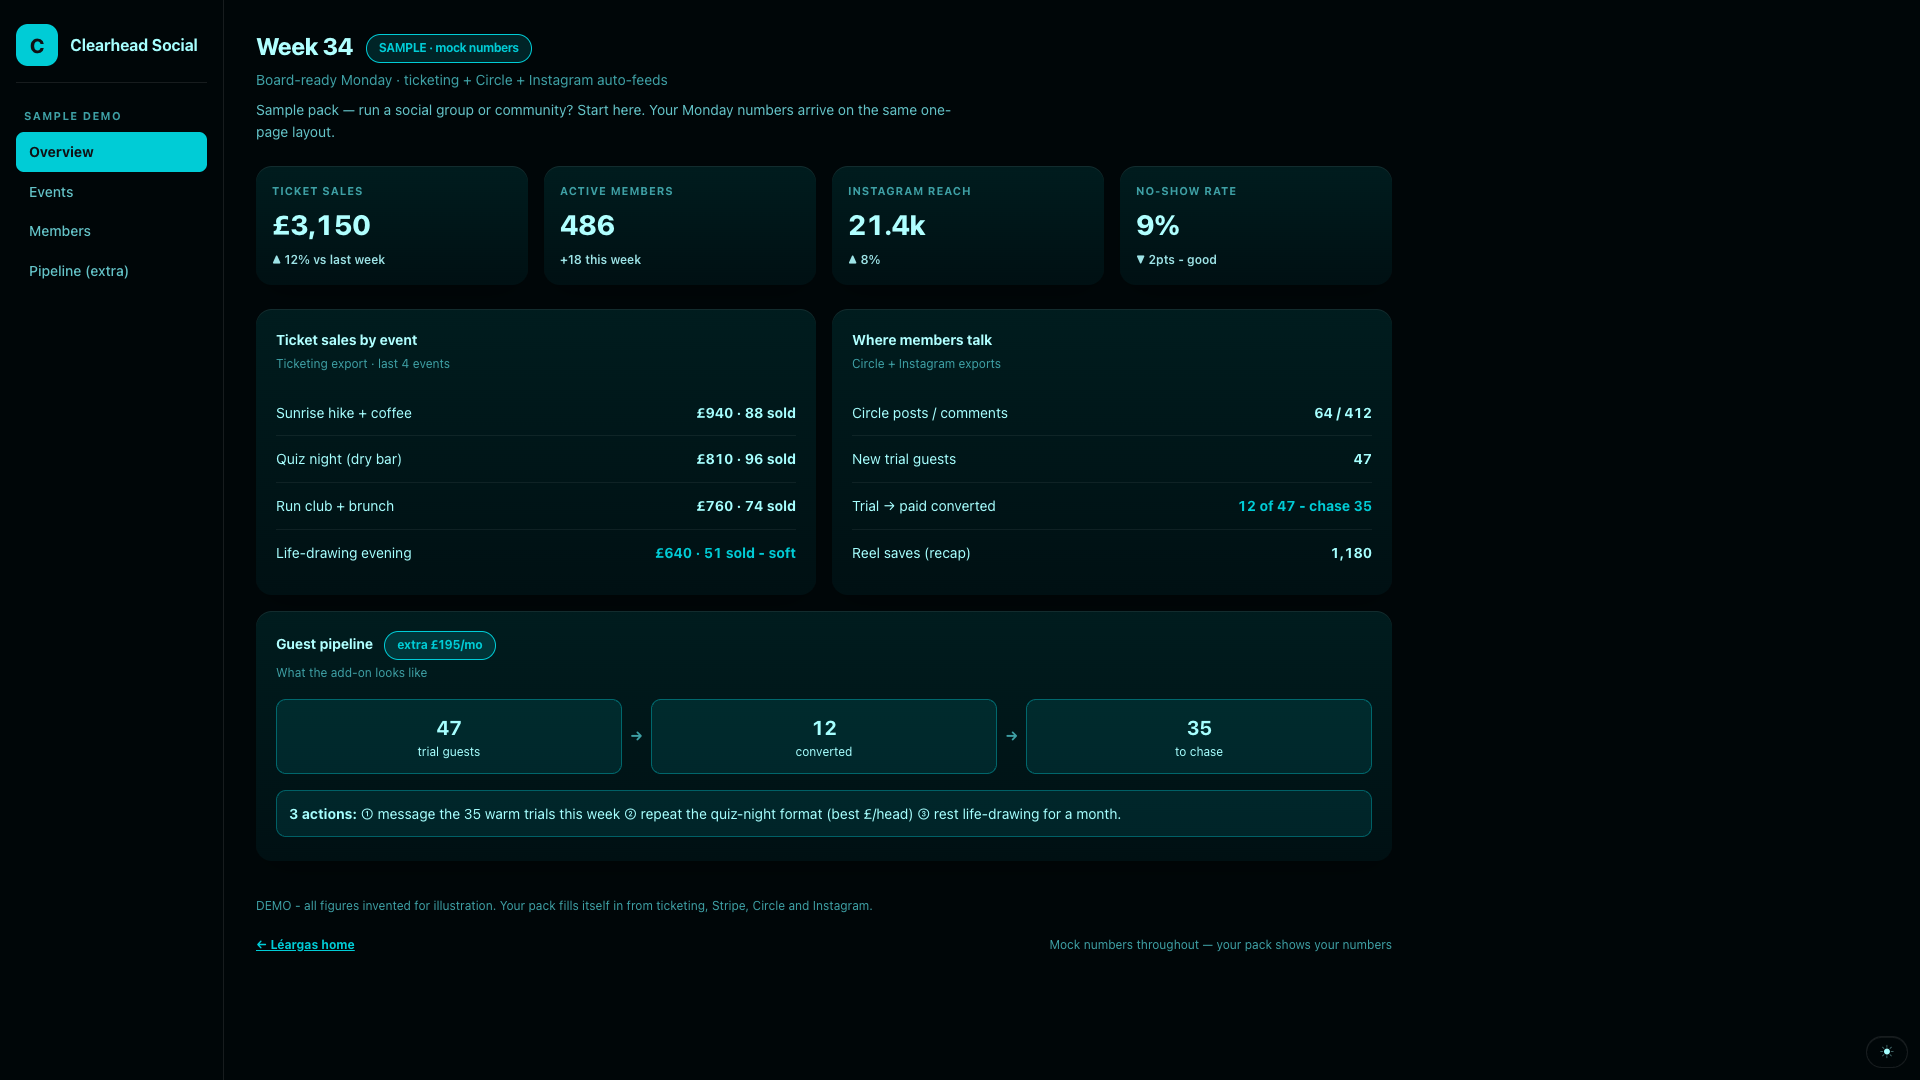
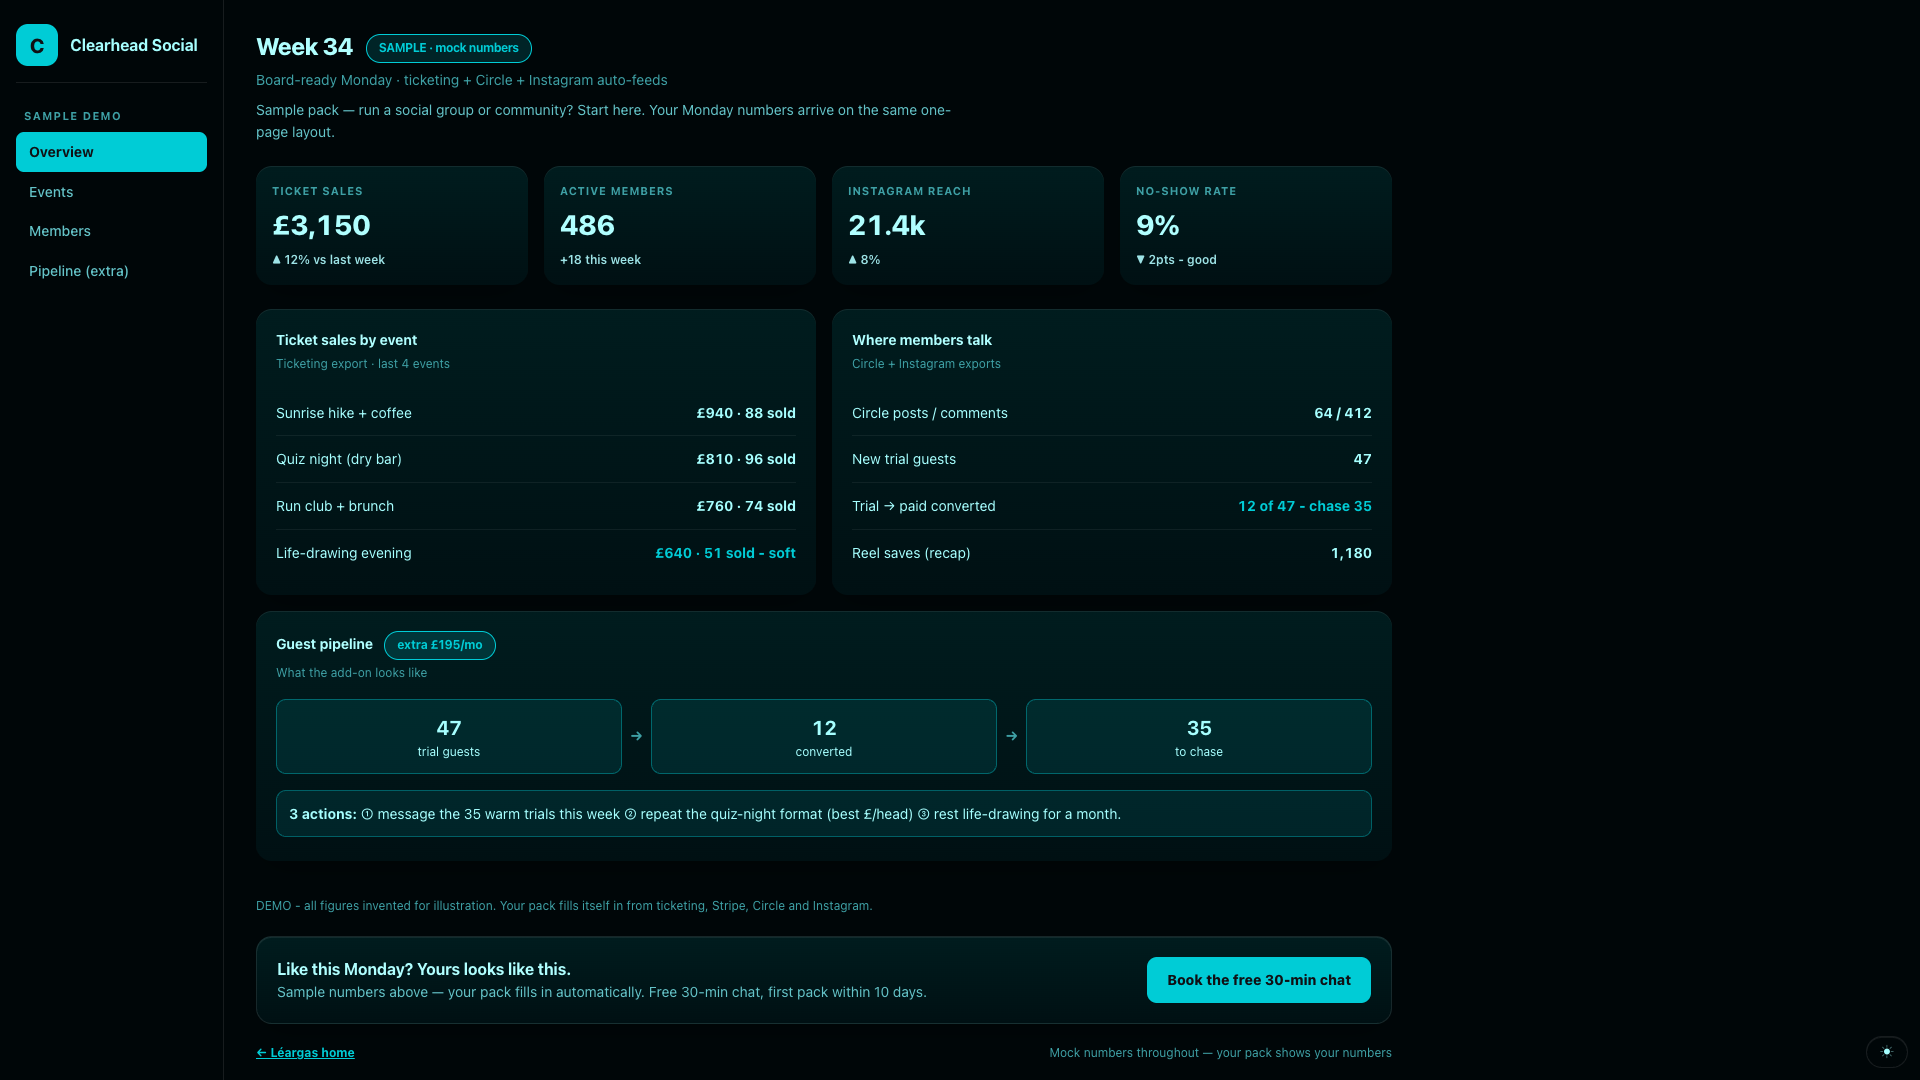
Restore demo bands + hero CTA, one voice: Book the free 30-min chat

Changed region(s): [[0.5312, 0.8556, 0.7188, 0.9778], [0.125, 0.8556, 0.4688, 0.9778]]

diff --git a/demo-social-group.html b/demo-social-group.html
@@ -64,6 +64,11 @@ button.ni{font-family:inherit}.ni:hover{background:rgba(255,255,255,.06);color:v
 html,body{overflow-x:clip}
 img{max-width:100%;height:auto}
 .foot a{color:var(--accent);font-weight:700}
+.bookbar{margin-top:1.25rem;border:1px solid var(--line);border-radius:1rem;padding:1.25rem;background:linear-gradient(180deg,var(--surface-hi),var(--surface));box-shadow:var(--shadow);display:flex;gap:1rem;align-items:center;justify-content:space-between;flex-wrap:wrap}
+.bookbar b{display:block;font-size:1rem;color:var(--ink-hi);letter-spacing:-.01em}
+.bookbar span{font-size:.875rem;color:var(--muted)}
+.bookbar a{flex-shrink:0;background:var(--accent);color:var(--accent-ink);font-weight:800;text-decoration:none;padding:.75rem 1.25rem;border-radius:.625rem;white-space:nowrap}
+@media(max-width:32.5rem){.bookbar a{width:100%;text-align:center;white-space:normal}}
 </style>
 </head>
 <body>
@@ -92,6 +97,7 @@ img{max-width:100%;height:auto}
 <div class="funnel"><div class="fstep"><b>47</b>trial guests</div><div class="arr">→</div><div class="fstep"><b>12</b>converted</div><div class="arr">→</div><div class="fstep"><b>35</b>to chase</div></div>
 <div class="act"><b>3 actions:</b> ① message the 35 warm trials this week ② repeat the quiz-night format (best £/head) ③ rest life-drawing for a month.</div></div></div></div>
 <div class="foot">DEMO - all figures invented for illustration. Your pack fills itself in from ticketing, Stripe, Circle and Instagram.</div>
+<div class="bookbar"><div><b>Like this Monday? Yours looks like this.</b><span>Sample numbers above — your pack fills in automatically. Free 30-min chat, first pack within 10 days.</span></div><a href="https://calendly.com/leargas/30min" target="_blank" rel="noopener">Book the free 30-min chat</a></div>
 <div class="foot"><span><a href="index.html">← Léargas home</a></span><span>Mock numbers throughout — your pack shows your numbers</span></div>
 </main></div>
 <button type="button" class="theme-toggle" id="themeToggle" title="Toggle light/dark mode" aria-label="Switch to light mode">☀</button>

diff --git a/index.html b/index.html
@@ -31,6 +31,8 @@ img{max-width:100%;height:auto}
 .topbar{position:sticky;top:0;z-index:10;background:color-mix(in srgb,var(--bg) 88%,transparent);backdrop-filter:blur(8px);border-bottom:1px solid var(--line)}
 .topbar .wrap{display:flex;align-items:center;justify-content:space-between;padding-top:.75rem;padding-bottom:.75rem}
 .brand{font-weight:800;letter-spacing:.14em;font-size:.875rem;text-decoration:none;color:var(--ink)}
+.btn{display:inline-block;background:var(--primary);color:var(--on-primary);font-weight:700;font-size:1rem;padding:.75rem 1.5rem;border-radius:.625rem;text-decoration:none;border:none;cursor:pointer;transition:background .15s ease-out,transform .15s ease-out,box-shadow .15s ease-out}
+.btn:hover{background:var(--primary-hi)}.btn:active{transform:translateY(1px)}
 .link-more{font-weight:600;font-size:1rem;color:var(--primary)}
 .hero .wrap{display:grid;grid-template-columns:1.05fr .95fr;gap:2rem;align-items:center;padding-top:3.5rem;padding-bottom:3rem}
 .eyebrow{display:inline-block;font-size:.75rem;font-weight:800;letter-spacing:.14em;text-transform:uppercase;color:var(--primary);margin-bottom:1rem}
@@ -114,7 +116,7 @@ footer.site .wrap{display:flex;gap:.5rem 1.5rem;flex-wrap:wrap;align-items:cente
 <div class="eyebrow">Made in Belfast · For independent hospitality</div>
 <h1>Every Monday, your numbers on one page.</h1>
 <p class="lede">Revenue, costs, cash and what needs attention — pulled automatically from the systems you already use. No new software. No manual entry. No Monday spreadsheet.</p>
-<div class="cta-row"><a class="link-more" href="#demos">See a live demo ↓</a></div>
+<div class="cta-row"><a class="btn" href="https://calendly.com/leargas/30min" target="_blank" rel="noopener">Book the free 30-min chat</a><a class="link-more" href="#demos">See a live demo ↓</a></div>
 </div>
 <div class="pack" aria-label="Sample Monday pack preview">
 <div class="pack-head"><b>Monday pack · Week 34</b><span>SAMPLE</span></div>

diff --git a/demo-juice-bar.html b/demo-juice-bar.html
@@ -63,6 +63,11 @@ button.ni{font-family:inherit}.ni:hover{background:rgba(255,255,255,.06);color:v
 html,body{overflow-x:clip}
 img{max-width:100%;height:auto}
 .foot a{color:var(--accent);font-weight:700}
+.bookbar{margin-top:1.25rem;border:1px solid var(--line);border-radius:1rem;padding:1.25rem;background:linear-gradient(180deg,var(--surface-hi),var(--surface));box-shadow:var(--shadow);display:flex;gap:1rem;align-items:center;justify-content:space-between;flex-wrap:wrap}
+.bookbar b{display:block;font-size:1rem;color:var(--ink-hi);letter-spacing:-.01em}
+.bookbar span{font-size:.875rem;color:var(--muted)}
+.bookbar a{flex-shrink:0;background:var(--accent);color:var(--accent-ink);font-weight:800;text-decoration:none;padding:.75rem 1.25rem;border-radius:.625rem;white-space:nowrap}
+@media(max-width:32.5rem){.bookbar a{width:100%;text-align:center;white-space:normal}}
 </style>
 </head>
 <body>
@@ -96,6 +101,7 @@ img{max-width:100%;height:auto}
 <div class="row"><span>Saturday peak understaffed</span><b>queue 11 min</b></div>
 <div class="act"><b>3 actions:</b> ① reorder oat milk Tue ② trim Friday close by one ③ push Green Machine promo (margin 71%).</div></div></div></div>
 <div class="foot">DEMO - all figures invented for illustration. Your pack fills itself in from till, Stripe, bank and sheets.</div>
+<div class="bookbar"><div><b>Like this Monday? Yours looks like this.</b><span>Sample numbers above — your pack fills in automatically. Free 30-min chat, first pack within 10 days.</span></div><a href="https://calendly.com/leargas/30min" target="_blank" rel="noopener">Book the free 30-min chat</a></div>
 <div class="foot"><span><a href="index.html">← Léargas home</a></span><span>Mock numbers throughout — your pack shows your numbers</span></div>
 </main></div>
 <button type="button" class="theme-toggle" id="themeToggle" title="Toggle light/dark mode" aria-label="Switch to light mode">☀</button>

diff --git a/demo-restaurant.html b/demo-restaurant.html
@@ -63,6 +63,11 @@ button.ni{font-family:inherit}.ni:hover{background:rgba(255,255,255,.06);color:v
 html,body{overflow-x:clip}
 img{max-width:100%;height:auto}
 .foot a{color:var(--accent);font-weight:700}
+.bookbar{margin-top:1.25rem;border:1px solid var(--line);border-radius:1rem;padding:1.25rem;background:linear-gradient(180deg,var(--surface-hi),var(--surface));box-shadow:var(--shadow);display:flex;gap:1rem;align-items:center;justify-content:space-between;flex-wrap:wrap}
+.bookbar b{display:block;font-size:1rem;color:var(--ink-hi);letter-spacing:-.01em}
+.bookbar span{font-size:.875rem;color:var(--muted)}
+.bookbar a{flex-shrink:0;background:var(--accent);color:var(--accent-ink);font-weight:800;text-decoration:none;padding:.75rem 1.25rem;border-radius:.625rem;white-space:nowrap}
+@media(max-width:32.5rem){.bookbar a{width:100%;text-align:center;white-space:normal}}
 </style>
 </head>
 <body>
@@ -94,6 +99,7 @@ img{max-width:100%;height:auto}
 <div class="row"><span>Sunday lunch overstaffed 5h</span><b class="warn">≈ £65</b></div>
 <div class="act"><b>3 actions:</b> ① extend Tue offer one week ② kill Bottomless Sun ③ trim Sunday shift by one.</div></div></div></div>
 <div class="foot">DEMO - all figures invented for illustration. Your pack fills itself in from till, bookings, bank and sheets.</div>
+<div class="bookbar"><div><b>Like this Monday? Yours looks like this.</b><span>Sample numbers above — your pack fills in automatically. Free 30-min chat, first pack within 10 days.</span></div><a href="https://calendly.com/leargas/30min" target="_blank" rel="noopener">Book the free 30-min chat</a></div>
 <div class="foot"><span><a href="index.html">← Léargas home</a></span><span>Mock numbers throughout — your pack shows your numbers</span></div>
 </main></div>
 <button type="button" class="theme-toggle" id="themeToggle" title="Toggle light/dark mode" aria-label="Switch to light mode">☀</button>

diff --git a/demo-leisure-club.html b/demo-leisure-club.html
@@ -153,6 +153,11 @@ button.pill{font-family:inherit}
 html,body{overflow-x:clip}
 img{max-width:100%;height:auto}
 .leisure-foot a,.foot a{color:var(--accent);font-weight:700}
+.bookbar{margin-top:1.5rem;border-radius:var(--radius);padding:1.25rem;background:linear-gradient(180deg,var(--surface-hi),var(--surface));box-shadow:var(--shadow);display:flex;gap:1rem;align-items:center;justify-content:space-between;flex-wrap:wrap}
+.bookbar b{display:block;font-size:1rem;color:var(--ink-hi);letter-spacing:-.01em}
+.bookbar span{font-size:.875rem;color:var(--muted)}
+.bookbar a{flex-shrink:0;background:var(--accent);color:var(--accent-ink);font-weight:800;text-decoration:none;padding:.75rem 1.25rem;border-radius:.625rem;white-space:nowrap}
+@media(max-width:32.5rem){.bookbar a{width:100%;text-align:center;white-space:normal}}
 .intro{font-size:.875rem;color:var(--muted);margin-top:.5rem;max-width:44rem;line-height:1.55}
 .leisure-foot{display:flex;gap:.25rem 1rem;flex-wrap:wrap;justify-content:space-between;font-size:.75rem;color:var(--faint);margin-top:1.25rem}
 </style>
@@ -474,6 +479,7 @@ img{max-width:100%;height:auto}
         </div>
       </div>
     </section>
+    <div class="bookbar"><div><b>Like this Monday? Yours looks like this.</b><span>Sample numbers above — your pack fills in automatically. Free 30-min chat, first pack within 10 days.</span></div><a href="https://calendly.com/leargas/30min" target="_blank" rel="noopener">Book the free 30-min chat</a></div>
         <div class="leisure-foot"><span><a href="index.html">← Léargas home</a></span><span>Mock numbers throughout — your pack shows your numbers</span></div></main>
 </div>
 <button type="button" class="theme-toggle" id="themeToggle" title="Toggle light/dark mode" aria-label="Switch to light mode">☀</button>

diff --git a/scripts/ui_gates.py b/scripts/ui_gates.py
@@ -37,11 +37,11 @@ def main() -> int:
         check(f"no-top-banner:{d}", 'demo-top' not in text[d] and 'demo-note' not in text[d],
               "banner-free top, footer carries wayfinding")
 
-    # 2. Demo structure: quiet footer only, no booking furniture.
+    # 2. Demo structure: one booking band + quiet footer, no other furniture.
     for d in DEMOS:
         t = text[d]
-        check(f"no-bookbar:{d}", 'bookbar' not in t,
-              "no booking band")
+        check(f"bookbar-once:{d}", t.count('class="bookbar"') == 1,
+              f"count={t.count('class=\"bookbar\"')}")
         check(f"home-link:{d}", "← Léargas home" in t, "accent home link present")
         check(f"mock-label:{d}", ("mock" in t.lower() or "sample" in t.lower()),
               "mock/sample labelled")
@@ -53,13 +53,17 @@ def main() -> int:
 
     # 4. Landing structure.
     land = text[LANDING]
-    check("single-cta", land.lower().count("calendly") == 1
-          and 'class="final" href="https://calendly.com/leargas/30min"' in land
+    check("booking-ctas", land.lower().count("calendly") == 2
+          and '<a class="btn" href="https://calendly.com/leargas/30min"' in land
+          and '<a class="final" href="https://calendly.com/leargas/30min"' in land
           and "data-calendly" not in land
           and 'id="book"' not in land
           and "sticky-cta" not in land and "stickyCta" not in land
           and "widget.js" not in land,
-          "the green final band is the one and only booking link")
+          "hero button + final band only, no widget/sticky/book section")
+    check("one-voice", "Book a 30-min chat" not in land
+          and land.count("Book the free 30-min chat") == 2,
+          "every CTA reads exactly 'Book the free 30-min chat'")
     check("no-fit-phrase", "not a fit" not in land,
           "phrase purged")
     check("no-autoplay-copy", "slides on its own" not in land
@@ -103,12 +107,14 @@ def main() -> int:
     check("faq-centered", "details.faq" in land and "margin:0 auto .75rem" in land,
           "FAQ cards centered like price card")
 
-    # 5. Booking linkage: exactly one, on the landing's final band; demos pure showcase.
+    # 5. Booking linkage: hero button + final band on landing, one band per demo.
     for p in pages:
         if p == LANDING:
             continue
-        check(f"zero-calendly:{p}", "calendly" not in text[p].lower(),
-              "clean")
+        check(f"demo-cta:{p}", text[p].count("calendly.com/leargas/30min") == 1
+              and "Book a 30-min chat" not in text[p]
+              and text[p].count("Book the free 30-min chat") == 1,
+              "one band, one voice")
         check(f"no-fit-phrase:{p}", "not a fit" not in text[p],
               "phrase purged")
 

diff --git a/AGENTS.md b/AGENTS.md
@@ -12,10 +12,9 @@
   classes `lk-topbar`/`lk-cta`/`lk-foot`/`lk-note`) inside demos.
 - NO top banner on demos. Wayfinding is the footer home link only — a banner
   photographs into every screenshot and unbalances the dashboard top.
-- Demos end at ONE quiet footer (home link in accent + mock line, flex
-  `space-between`, baseline-aligned). No booking bands, no green CTA button
-  inside a themed dashboard — there is no scheduling integration; demos are
-  pure product showcase.
+- Demos end at one `.bookbar` band + ONE quiet footer (home link in accent +
+  mock line, flex `space-between`, baseline-aligned). No stacked triple
+  footers, no green CTA button inside a themed dashboard.
 - No `→` on intro links (timeline `→` inside FAQ prose is fine).
 
 ## Landing (`index.html`) — carousel showcase, one intentional contrast
@@ -41,10 +40,11 @@
 - Trust band = `Built for …` + sample line only. No big stat metrics.
 - Tinted bands: green final CTA only. No other `band` sections. Sections
   share one rhythm (`section.block` padding, no per-section snowflakes).
-- Booking has exactly ONE surface: the green final band, which links to the
-  30-min chat (`https://calendly.com/leargas/30min`, whole band clickable).
-  No topbar/hero/pricing/sticky buttons, no widget, no popup code, no booking
-  bands on demos. Demos are pure showcase ending at the quiet footer.
+- Booking CTAs live in exactly three places, all reading word-for-word
+  `Book the free 30-min chat` → `https://calendly.com/leargas/30min`: the hero
+  button, one `.bookbar` band per demo (theme `--accent` button, NO `→`), and
+  the green final band (whole band clickable). Nowhere else — no topbar,
+  pricing, sticky, widget, popup code, or booking bands anywhere else.
 - No pilot-feedback/proof section without real named data. Mock stays mock.
 
 ## Gate
